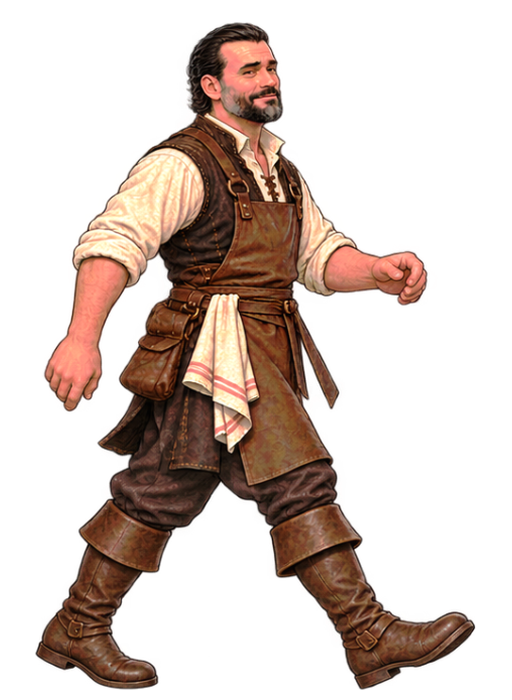
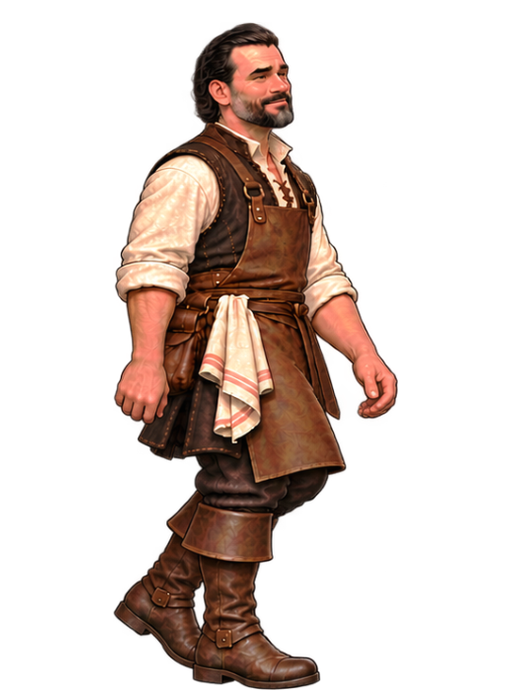
Add files via upload

diff --git a/index.html b/index.html
@@ -1,4 +1,4 @@
 <!doctype html>
 <html lang="de"><head><meta charset="utf-8"><meta name="viewport" content="width=device-width,initial-scale=1,viewport-fit=cover,user-scalable=no"><meta name="theme-color" content="#c9a56b"><title>Schauenburg – Die Burgschenke</title>
-<link rel="preload" as="image" href="assets/maps/terrasse.jpg" fetchpriority="high"><link rel="preload" as="audio" href="assets/audio/arrival-in-ashford.mp3"><link rel="preload" as="audio" href="assets/audio/Door Open Sound.mp3"><link rel="preload" as="image" href="assets/maps/wirtschaft-innen.jpg?v=18" fetchpriority="high"><link rel="preload" as="image" href="assets/npc/frau-run-1.png?v=02"><link rel="preload" as="image" href="assets/npc/frau-run-2.png?v=02"><link rel="preload" as="image" href="assets/npc/baer-run-1.png?v=22"><link rel="preload" as="image" href="assets/npc/baer-run-2.png?v=22"><link rel="preload" as="image" href="assets/npc/baer-run-3.png?v=22"><link rel="preload" as="audio" href="assets/audio/girlyscream_01.mp3"><link rel="preload" as="audio" href="assets/audio/bearattack_1.mp3"><link rel="preload" as="audio" href="assets/audio/bearattack_2.mp3"><link rel="preload" as="audio" href="assets/audio/bearattack_3.mp3"><link rel="preload" as="audio" href="assets/audio/The Hold Steady - The Bear and the Maiden Fair.mp3"><link rel="preload" as="audio" href="assets/audio/Der Bock geht um.mp3"><link rel="preload" as="audio" href="assets/audio/bock-departure.mp3"><link rel="preload" as="audio" href="assets/audio/bock-drink.mp3"><link rel="preload" as="audio" href="assets/audio/bock-burp.mp3"><link rel="preload" as="image" href="assets/npc/bock-reiter-1.png?v=28"><link rel="preload" as="image" href="assets/npc/bock-reiter-2.png?v=28"><link rel="preload" as="image" href="assets/npc/bock-reiter-3.png?v=28"><link rel="preload" as="image" href="assets/npc/bock-stop.png?v=30"><link rel="preload" as="image" href="assets/npc/bock-dismount.png?v=30"><link rel="preload" as="image" href="assets/npc/bock-final.png?v=30"><link rel="preload" as="image" href="assets/npc/bock-wunsch.png?v=38"><link rel="preload" as="image" href="assets/npc/bock-bier.png?v=38"><link rel="preload" as="image" href="assets/npc/bock-trinkt.png?v=38"><link rel="preload" as="image" href="assets/npc/bock-krug-leer.png?v=38"><link rel="preload" as="image" href="assets/npc/bock-reaktion-1.png?v=01"><link rel="preload" as="image" href="assets/npc/bock-reaktion-2.png?v=01"><link rel="preload" as="image" href="assets/player/tisch-w.png?v=47"><link rel="preload" as="image" href="assets/player/tisch-s.png?v=47"><link rel="preload" as="image" href="assets/player/tisch-d.png?v=46"><link rel="preload" as="image" href="assets/player/tisch-a.png?v=46"><link rel="preload" as="image" href="assets/npc/baum-versteck.png?v=01"><link rel="preload" as="image" href="assets/player/nobier-front-1.png?v=67"><link rel="preload" as="image" href="assets/player/nobier-front-2.png?v=67"><link rel="preload" as="image" href="assets/player/nobier-front-3.png?v=67"><link rel="preload" as="image" href="assets/player/nobier-front-4.png?v=67"><link rel="preload" as="image" href="assets/player/nobier-back-1.png?v=67"><link rel="preload" as="image" href="assets/player/nobier-back-2.png?v=67"><link rel="preload" as="image" href="assets/player/nobier-back-3.png?v=67"><link rel="preload" as="image" href="assets/player/nobier-back-4.png?v=67"><link rel="preload" as="image" href="assets/player/nobier-side-1.png?v=67"><link rel="preload" as="image" href="assets/player/nobier-side-2.png?v=67"><link rel="preload" as="image" href="assets/player/nobier-side-3.png?v=67"><link rel="preload" as="image" href="assets/player/nobier-side-4.png?v=67"><link rel="stylesheet" href="style.css?v=12"></head>
-<body><main id="game" aria-label="Schauenburg – Die Burgschenke"><div id="world"><img id="map" src="assets/maps/terrasse.jpg" alt="Terrasse der Burgschenke" draggable="false"><img class="prop no-collision" id="baum" src="assets/props/baum.png?v=03" alt="" draggable="false"><img class="prop collidable" id="wirtschaft" src="assets/props/wirtschaft.png?v=03" alt="" draggable="false" data-collision="alpha"><img class="prop collidable" id="stehtischLinks" src="assets/props/stehtisch.png?v=03" alt="" draggable="false" data-collision="alpha"><img class="prop collidable" id="stehtischMitte" src="assets/props/stehtisch.png?v=03" alt="" draggable="false" data-collision="alpha"><img class="prop collidable" id="stehtischRechts" src="assets/props/stehtisch.png?v=03" alt="" draggable="false" data-collision="alpha"><img class="prop collidable" id="stuhl" src="assets/props/stuhl.png?v=03" alt="" draggable="false" data-collision="alpha"><img class="prop collidable" id="tafel" src="assets/props/tafel.png?v=03" alt="" draggable="false" data-collision="alpha"><img id="player" src="assets/player/nobier-front-1.png?v=67" alt="" draggable="false"></div><audio id="bgMusic" src="assets/audio/arrival-in-ashford.mp3" preload="auto" loop></audio><div id="loading">DIE BURGSCHENKE WIRD GEÖFFNET …</div><div id="zoomHint" aria-hidden="true">MAUSRAD · 2 ZOOMSTUFEN</div><div id="irisTransition" aria-hidden="true"></div></main><script src="game.js?v=67"></script></body></html>
+<link rel="preload" as="image" href="assets/maps/terrasse.jpg" fetchpriority="high"><link rel="preload" as="audio" href="assets/audio/arrival-in-ashford.mp3"><link rel="preload" as="audio" href="assets/audio/Door Open Sound.mp3"><link rel="preload" as="image" href="assets/maps/wirtschaft-innen.jpg?v=18" fetchpriority="high"><link rel="preload" as="image" href="assets/npc/frau-run-1.png?v=02"><link rel="preload" as="image" href="assets/npc/frau-run-2.png?v=02"><link rel="preload" as="image" href="assets/npc/baer-run-1.png?v=22"><link rel="preload" as="image" href="assets/npc/baer-run-2.png?v=22"><link rel="preload" as="image" href="assets/npc/baer-run-3.png?v=22"><link rel="preload" as="audio" href="assets/audio/girlyscream_01.mp3"><link rel="preload" as="audio" href="assets/audio/bearattack_1.mp3"><link rel="preload" as="audio" href="assets/audio/bearattack_2.mp3"><link rel="preload" as="audio" href="assets/audio/bearattack_3.mp3"><link rel="preload" as="audio" href="assets/audio/The Hold Steady - The Bear and the Maiden Fair.mp3"><link rel="preload" as="audio" href="assets/audio/Der Bock geht um.mp3"><link rel="preload" as="audio" href="assets/audio/bock-departure.mp3"><link rel="preload" as="audio" href="assets/audio/bock-drink.mp3"><link rel="preload" as="audio" href="assets/audio/bock-burp.mp3"><link rel="preload" as="image" href="assets/npc/bock-reiter-1.png?v=28"><link rel="preload" as="image" href="assets/npc/bock-reiter-2.png?v=28"><link rel="preload" as="image" href="assets/npc/bock-reiter-3.png?v=28"><link rel="preload" as="image" href="assets/npc/bock-stop.png?v=30"><link rel="preload" as="image" href="assets/npc/bock-dismount.png?v=30"><link rel="preload" as="image" href="assets/npc/bock-final.png?v=30"><link rel="preload" as="image" href="assets/npc/bock-wunsch.png?v=38"><link rel="preload" as="image" href="assets/npc/bock-bier.png?v=38"><link rel="preload" as="image" href="assets/npc/bock-trinkt.png?v=38"><link rel="preload" as="image" href="assets/npc/bock-krug-leer.png?v=38"><link rel="preload" as="image" href="assets/npc/bock-reaktion-1.png?v=01"><link rel="preload" as="image" href="assets/npc/bock-reaktion-2.png?v=01"><link rel="preload" as="image" href="assets/player/tisch-w.png?v=47"><link rel="preload" as="image" href="assets/player/tisch-s.png?v=47"><link rel="preload" as="image" href="assets/player/tisch-d.png?v=46"><link rel="preload" as="image" href="assets/player/tisch-a.png?v=46"><link rel="preload" as="image" href="assets/npc/baum-versteck.png?v=01"><link rel="preload" as="image" href="assets/player/nobier-front-1.png?v=67"><link rel="preload" as="image" href="assets/player/nobier-front-2.png?v=67"><link rel="preload" as="image" href="assets/player/nobier-front-3.png?v=67"><link rel="preload" as="image" href="assets/player/nobier-front-4.png?v=67"><link rel="preload" as="image" href="assets/player/nobier-back-1.png?v=67"><link rel="preload" as="image" href="assets/player/nobier-back-2.png?v=67"><link rel="preload" as="image" href="assets/player/nobier-back-3.png?v=67"><link rel="preload" as="image" href="assets/player/nobier-back-4.png?v=67"><link rel="preload" as="image" href="assets/player/nobier-side-1.png?v=68"><link rel="preload" as="image" href="assets/player/nobier-side-2.png?v=68"><link rel="preload" as="image" href="assets/player/nobier-side-3.png?v=68"><link rel="stylesheet" href="style.css?v=12"></head>
+<body><main id="game" aria-label="Schauenburg – Die Burgschenke"><div id="world"><img id="map" src="assets/maps/terrasse.jpg" alt="Terrasse der Burgschenke" draggable="false"><img class="prop no-collision" id="baum" src="assets/props/baum.png?v=03" alt="" draggable="false"><img class="prop collidable" id="wirtschaft" src="assets/props/wirtschaft.png?v=03" alt="" draggable="false" data-collision="alpha"><img class="prop collidable" id="stehtischLinks" src="assets/props/stehtisch.png?v=03" alt="" draggable="false" data-collision="alpha"><img class="prop collidable" id="stehtischMitte" src="assets/props/stehtisch.png?v=03" alt="" draggable="false" data-collision="alpha"><img class="prop collidable" id="stehtischRechts" src="assets/props/stehtisch.png?v=03" alt="" draggable="false" data-collision="alpha"><img class="prop collidable" id="stuhl" src="assets/props/stuhl.png?v=03" alt="" draggable="false" data-collision="alpha"><img class="prop collidable" id="tafel" src="assets/props/tafel.png?v=03" alt="" draggable="false" data-collision="alpha"><img id="player" src="assets/player/nobier-front-1.png?v=67" alt="" draggable="false"></div><audio id="bgMusic" src="assets/audio/arrival-in-ashford.mp3" preload="auto" loop></audio><div id="loading">DIE BURGSCHENKE WIRD GEÖFFNET …</div><div id="zoomHint" aria-hidden="true">MAUSRAD · 2 ZOOMSTUFEN</div><div id="irisTransition" aria-hidden="true"></div></main><script src="game.js?v=68"></script></body></html>

diff --git a/game.js b/game.js
@@ -1422,8 +1422,8 @@ const PLAYER_SEQUENCES={
 const PLAYER_NO_BEER_SEQUENCES={
   front:[1,2,3,4],
   back:[1,2,3,4],
-  right:[1,2,4,3],
-  left:[1,2,4,3]
+  right:[1,2,3],
+  left:[1,2,3]
 };
 let playerHasBeer=false;
 function activePlayerSequence(direction){
@@ -1441,7 +1441,7 @@ let playerDirectionToken=0;
 
 function playerSpritePath(direction,frame){
   const source=(direction==='left'||direction==='right') ? 'side' : direction;
-  if(!playerHasBeer)return `assets/player/nobier-${source}-${frame}.png?v=67`;
+  if(!playerHasBeer)return `assets/player/nobier-${source}-${frame}.png?v=68`;
   /* Bestehende Bier-Sprites exakt wie bisher. */
   const version=source==='back' ? '' : '?v=12';
   return `assets/player/${source}-${frame}.png${version}`;
